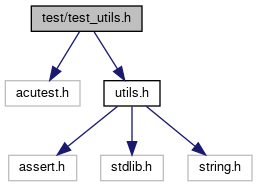
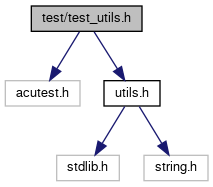
deploy: 4cbfe685de5dd1eba418657eeb582addb2322383

diff --git a/test__linkedarray_8h_source.html b/test__linkedarray_8h_source.html
@@ -341,11 +341,21 @@ $(function() {
 <div class="line"><a name="l00283"></a><span class="lineno">  283</span>&#160;    <span class="keyword">delete</span>(list, 1);</div>
 <div class="line"><a name="l00284"></a><span class="lineno">  284</span>&#160;    <span class="keyword">delete</span>(list, 1);</div>
 <div class="line"><a name="l00285"></a><span class="lineno">  285</span>&#160;    <span class="keyword">delete</span>(list, 1);</div>
-<div class="line"><a name="l00286"></a><span class="lineno">  286</span>&#160; </div>
-<div class="line"><a name="l00287"></a><span class="lineno">  287</span>&#160;}</div>
-<div class="line"><a name="l00288"></a><span class="lineno">  288</span>&#160; </div>
-<div class="line"><a name="l00289"></a><span class="lineno">  289</span>&#160; </div>
-<div class="line"><a name="l00290"></a><span class="lineno">  290</span>&#160;<span class="preprocessor">#endif</span></div>
+<div class="line"><a name="l00286"></a><span class="lineno">  286</span>&#160;    <a class="code" href="linkedarray_8h.html#ad28f54d3afb32efa9887077f3f10bec1">insert</a>(list, 1,1);</div>
+<div class="line"><a name="l00287"></a><span class="lineno">  287</span>&#160;    <a class="code" href="linkedarray_8h.html#ad28f54d3afb32efa9887077f3f10bec1">insert</a>(list, 1,1);</div>
+<div class="line"><a name="l00288"></a><span class="lineno">  288</span>&#160;    <a class="code" href="linkedarray_8h.html#ad28f54d3afb32efa9887077f3f10bec1">insert</a>(list, 1,1);</div>
+<div class="line"><a name="l00289"></a><span class="lineno">  289</span>&#160;    <a class="code" href="linkedarray_8h.html#ad28f54d3afb32efa9887077f3f10bec1">insert</a>(list, 1,1);</div>
+<div class="line"><a name="l00290"></a><span class="lineno">  290</span>&#160;    <a class="code" href="linkedarray_8h.html#ad28f54d3afb32efa9887077f3f10bec1">insert</a>(list, 1,1);</div>
+<div class="line"><a name="l00291"></a><span class="lineno">  291</span>&#160;    <a class="code" href="linkedarray_8h.html#a68b2cb74eff0a4f1f38366f3ca7609ef">reverse</a>(&amp;list, 1,4);</div>
+<div class="line"><a name="l00292"></a><span class="lineno">  292</span>&#160;    <a class="code" href="linkedarray_8h.html#a68b2cb74eff0a4f1f38366f3ca7609ef">reverse</a>(&amp;list, 1,3);</div>
+<div class="line"><a name="l00293"></a><span class="lineno">  293</span>&#160;    <a class="code" href="linkedarray_8h.html#a68b2cb74eff0a4f1f38366f3ca7609ef">reverse</a>(&amp;list, 1,4);</div>
+<div class="line"><a name="l00294"></a><span class="lineno">  294</span>&#160;    <span class="keyword">delete</span>(list, 1);</div>
+<div class="line"><a name="l00295"></a><span class="lineno">  295</span>&#160;    <span class="keyword">delete</span>(list, 1);</div>
+<div class="line"><a name="l00296"></a><span class="lineno">  296</span>&#160;    <span class="keyword">delete</span>(list, 1);</div>
+<div class="line"><a name="l00297"></a><span class="lineno">  297</span>&#160;}</div>
+<div class="line"><a name="l00298"></a><span class="lineno">  298</span>&#160; </div>
+<div class="line"><a name="l00299"></a><span class="lineno">  299</span>&#160; </div>
+<div class="line"><a name="l00300"></a><span class="lineno">  300</span>&#160;<span class="preprocessor">#endif</span></div>
 <div class="ttc" id="alinkedarray_8h_html"><div class="ttname"><a href="linkedarray_8h.html">linkedarray.h</a></div><div class="ttdoc">Unrolled linked list for finding K-least element.</div></div>
 <div class="ttc" id="alinkedarray_8h_html_a1a97e22047e9315fd79bc2661138e2ab"><div class="ttname"><a href="linkedarray_8h.html#a1a97e22047e9315fd79bc2661138e2ab">flipFullNodes</a></div><div class="ttdeci">int flipFullNodes(LnkArr **list, Loc nodeStr, Loc nodeEnd)</div><div class="ttdoc">Flip nodes between start to end nodes, including themselves. The effect region is (start....</div><div class="ttdef"><b>Definition:</b> linkedarray.c:317</div></div>
 <div class="ttc" id="alinkedarray_8h_html_a24675a0a3b56694ff51f65c618420cac"><div class="ttname"><a href="linkedarray_8h.html#a24675a0a3b56694ff51f65c618420cac">get_ith_var</a></div><div class="ttdeci">int get_ith_var(LnkArr *headList, int i)</div><div class="ttdef"><b>Definition:</b> linkedarray.c:451</div></div>

diff --git a/main_8c.html b/main_8c.html
@@ -82,13 +82,13 @@ Include dependency graph for main.c:</div>
 <div class="dyncontent">
 <div class="center"><img src="main_8c__incl.png" border="0" usemap="#asrc_2main_8c" alt=""/></div>
 <map name="asrc_2main_8c" id="asrc_2main_8c">
-<area shape="rect" title="DSA2021 HW1 P6: K least member. This package is majorly done by myself. The algorithm part is inspire..." alt="" coords="127,5,210,32"/>
-<area shape="rect" title=" " alt="" coords="5,155,65,181"/>
-<area shape="rect" title=" " alt="" coords="253,229,316,256"/>
-<area shape="rect" href="linkedarray_8h.html" title="Unrolled linked list for finding K&#45;least element." alt="" coords="121,80,216,107"/>
-<area shape="rect" title=" " alt="" coords="161,229,229,256"/>
-<area shape="rect" title=" " alt="" coords="73,229,137,256"/>
-<area shape="rect" href="utils_8h.html" title="General Utilities for C language." alt="" coords="141,155,197,181"/>
+<area shape="rect" title="DSA2021 HW1 P6: K least member. This package is majorly done by myself. The algorithm part is inspire..." alt="" coords="17,5,100,32"/>
+<area shape="rect" title=" " alt="" coords="28,155,88,181"/>
+<area shape="rect" title=" " alt="" coords="95,229,158,256"/>
+<area shape="rect" href="linkedarray_8h.html" title="Unrolled linked list for finding K&#45;least element." alt="" coords="120,80,215,107"/>
+<area shape="rect" title=" " alt="" coords="295,155,363,181"/>
+<area shape="rect" title=" " alt="" coords="204,229,268,256"/>
+<area shape="rect" href="utils_8h.html" title="General Utilities for C language." alt="" coords="164,155,220,181"/>
 </map>
 </div>
 </div><table class="memberdecls">

diff --git a/test__linkedarray_8h.html b/test__linkedarray_8h.html
@@ -80,14 +80,14 @@ Include dependency graph for test_linkedarray.h:</div>
 <div class="dyncontent">
 <div class="center"><img src="test__linkedarray_8h__incl.png" border="0" usemap="#atest_2test__linkedarray_8h" alt=""/></div>
 <map name="atest_2test__linkedarray_8h" id="atest_2test__linkedarray_8h">
-<area shape="rect" title=" " alt="" coords="69,5,218,32"/>
-<area shape="rect" href="linkedarray_8h.html" title="Unrolled linked list for finding K&#45;least element." alt="" coords="96,80,191,107"/>
+<area shape="rect" title=" " alt="" coords="77,5,226,32"/>
+<area shape="rect" href="linkedarray_8h.html" title="Unrolled linked list for finding K&#45;least element." alt="" coords="104,80,199,107"/>
 <area shape="rect" title=" " alt="" coords="5,229,68,256"/>
-<area shape="rect" title=" " alt="" coords="215,80,272,107"/>
-<area shape="rect" title=" " alt="" coords="155,155,215,181"/>
-<area shape="rect" title=" " alt="" coords="135,229,203,256"/>
-<area shape="rect" title=" " alt="" coords="249,229,313,256"/>
-<area shape="rect" href="utils_8h.html" title="General Utilities for C language." alt="" coords="74,155,130,181"/>
+<area shape="rect" title=" " alt="" coords="223,80,280,107"/>
+<area shape="rect" title=" " alt="" coords="248,155,308,181"/>
+<area shape="rect" title=" " alt="" coords="75,155,143,181"/>
+<area shape="rect" title=" " alt="" coords="238,229,302,256"/>
+<area shape="rect" href="utils_8h.html" title="General Utilities for C language." alt="" coords="167,155,223,181"/>
 </map>
 </div>
 </div>

diff --git a/linkedarray_8h.html b/linkedarray_8h.html
@@ -87,12 +87,12 @@ Include dependency graph for linkedarray.h:</div>
 <div class="dyncontent">
 <div class="center"><img src="linkedarray_8h__incl.png" border="0" usemap="#asrc_2linkedarray_8h" alt=""/></div>
 <map name="asrc_2linkedarray_8h" id="asrc_2linkedarray_8h">
-<area shape="rect" title="Unrolled linked list for finding K&#45;least element." alt="" coords="96,5,212,32"/>
+<area shape="rect" title="Unrolled linked list for finding K&#45;least element." alt="" coords="117,5,233,32"/>
 <area shape="rect" title=" " alt="" coords="5,80,65,107"/>
-<area shape="rect" title=" " alt="" coords="72,155,135,181"/>
-<area shape="rect" title=" " alt="" coords="159,155,227,181"/>
-<area shape="rect" title=" " alt="" coords="251,155,315,181"/>
-<area shape="rect" href="utils_8h.html" title="General Utilities for C language." alt="" coords="191,80,247,107"/>
+<area shape="rect" title=" " alt="" coords="140,155,203,181"/>
+<area shape="rect" title=" " alt="" coords="141,80,209,107"/>
+<area shape="rect" title=" " alt="" coords="262,155,326,181"/>
+<area shape="rect" href="utils_8h.html" title="General Utilities for C language." alt="" coords="234,80,290,107"/>
 </map>
 </div>
 </div><div class="textblock"><div class="dynheader">

diff --git a/utils_8h.html b/utils_8h.html
@@ -75,18 +75,16 @@ $(function() {
 
 <p>General Utilities for C language.  
 <a href="#details">More...</a></p>
-<div class="textblock"><code>#include &lt;assert.h&gt;</code><br />
-<code>#include &lt;stdlib.h&gt;</code><br />
+<div class="textblock"><code>#include &lt;stdlib.h&gt;</code><br />
 <code>#include &lt;string.h&gt;</code><br />
 </div><div class="textblock"><div class="dynheader">
 Include dependency graph for utils.h:</div>
 <div class="dyncontent">
 <div class="center"><img src="utils_8h__incl.png" border="0" usemap="#asrc_2utils_8h" alt=""/></div>
 <map name="asrc_2utils_8h" id="asrc_2utils_8h">
-<area shape="rect" title="General Utilities for C language." alt="" coords="89,5,168,32"/>
-<area shape="rect" title=" " alt="" coords="5,80,73,107"/>
-<area shape="rect" title=" " alt="" coords="97,80,160,107"/>
-<area shape="rect" title=" " alt="" coords="185,80,249,107"/>
+<area shape="rect" title="General Utilities for C language." alt="" coords="41,5,120,32"/>
+<area shape="rect" title=" " alt="" coords="5,80,68,107"/>
+<area shape="rect" title=" " alt="" coords="93,80,157,107"/>
 </map>
 </div>
 </div><div class="textblock"><div class="dynheader">

diff --git a/utils_8h_source.html b/utils_8h_source.html
@@ -73,7 +73,7 @@ $(function() {
 <div class="line"><a name="l00011"></a><span class="lineno">   11</span>&#160;<span class="preprocessor">#ifndef UTILS_H</span></div>
 <div class="line"><a name="l00012"></a><span class="lineno">   12</span>&#160;<span class="preprocessor">#define UTILS_H</span></div>
 <div class="line"><a name="l00013"></a><span class="lineno">   13</span>&#160; </div>
-<div class="line"><a name="l00014"></a><span class="lineno">   14</span>&#160;<span class="preprocessor">#include &lt;assert.h&gt;</span></div>
+<div class="line"><a name="l00014"></a><span class="lineno">   14</span>&#160;<span class="comment">//#include &lt;assert.h&gt;</span></div>
 <div class="line"><a name="l00015"></a><span class="lineno">   15</span>&#160;<span class="preprocessor">#include &lt;stdlib.h&gt;</span></div>
 <div class="line"><a name="l00016"></a><span class="lineno">   16</span>&#160;<span class="preprocessor">#include &lt;string.h&gt;</span></div>
 <div class="line"><a name="l00017"></a><span class="lineno">   17</span>&#160; </div>

diff --git a/test__utils_8h.html b/test__utils_8h.html
@@ -84,9 +84,8 @@ Include dependency graph for test_utils.h:</div>
 <area shape="rect" title="Test utility functions." alt="" coords="31,5,142,32"/>
 <area shape="rect" title=" " alt="" coords="5,80,80,107"/>
 <area shape="rect" href="utils_8h.html" title="General Utilities for C language." alt="" coords="104,80,160,107"/>
-<area shape="rect" title=" " alt="" coords="9,155,77,181"/>
-<area shape="rect" title=" " alt="" coords="101,155,163,181"/>
-<area shape="rect" title=" " alt="" coords="188,155,252,181"/>
+<area shape="rect" title=" " alt="" coords="57,155,119,181"/>
+<area shape="rect" title=" " alt="" coords="144,155,208,181"/>
 </map>
 </div>
 </div>
